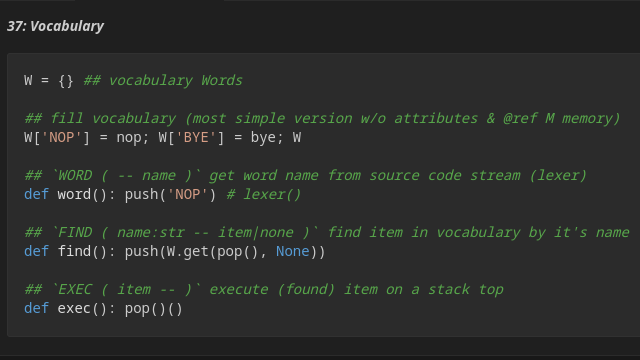
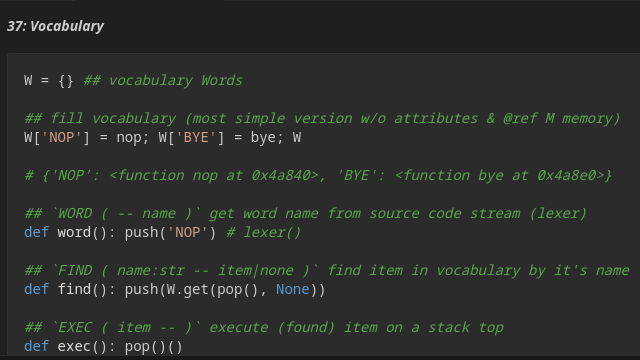
.

diff --git a/lib/test_FORTH.py b/lib/test_FORTH.py
@@ -4,118 +4,133 @@ from FORTH import *
 def test_always_passes(): assert True
 def test_always_fails(): assert not False
 
-## test @ref D data stack operations
-class TestD:
-
+class AnyTest:
     @pytest.fixture(autouse=True)
     def clear_stack(self): D.clear(); M.clear()
     # yield; D.clear() # optional clean after test
 
-    class TestStack:
+## test @ref D data stack operations
+class TestStack(AnyTest):
 
-        ## `( -- cell )`
-        def test_push(self):
-            push(1); assert D == [1]
+    ## `( -- cell )`
+    def test_push(self):
+        push(1); assert D == [1]
 
-        ## `( cell -- )`
-        def test_pop(self):
-            push(1); push(2); push(3); assert D == [1, 2, 3]
-            assert pop() == 3; assert D == [1, 2]
-            assert pop(1) == 1; assert D == [2]
+    ## `( cell -- )`
+    def test_pop(self):
+        push(1); push(2); push(3); assert D == [1, 2, 3]
+        assert pop() == 3; assert D == [1, 2]
+        assert pop(1) == 1; assert D == [2]
 
-        ## `( cell -- cell )`
-        def test_top(self):
-            push(1); assert top() == 1; assert D == [1]
+    ## `( cell -- cell )`
+    def test_top(self):
+        push(1); assert top() == 1; assert D == [1]
 
-        ## `CLEAR ( ... -- )`
-        def test_clear(self):
-            push(1); clear(); depth(); assert D == [0]
+    ## `CLEAR ( ... -- )`
+    def test_clear(self):
+        push(1); clear(); depth(); assert D == [0]
 
-        ## `DUP ( a -- a a )`
-        def test_dup(self):
-            push(1); dup(); assert D == [1, 1]
+    ## `DUP ( a -- a a )`
+    def test_dup(self):
+        push(1); dup(); assert D == [1, 1]
 
-        ## `DROP ( a b -- a )`
-        def test_drop(self):
-            push(1); push(2); drop(); assert D == [1]
+    ## `DROP ( a b -- a )`
+    def test_drop(self):
+        push(1); push(2); drop(); assert D == [1]
 
-        ## `PRESS ( a b -- b )`
-        def test_press(self):
-            push(1); push(2); press(); assert D == [2]
+    ## `PRESS ( a b -- b )`
+    def test_press(self):
+        push(1); push(2); press(); assert D == [2]
 
-        ## `SWAP ( a b -- b a )`
-        def test_swap(self):
-            push(1); push(2); swap(); assert D == [2, 1]
+    ## `SWAP ( a b -- b a )`
+    def test_swap(self):
+        push(1); push(2); swap(); assert D == [2, 1]
 
-        ## `OVER ( a b -- a b a )`
-        def test_over(self):
-            push(1); push(2); over(); assert D == [1, 2, 1]
+    ## `OVER ( a b -- a b a )`
+    def test_over(self):
+        push(1); push(2); over(); assert D == [1, 2, 1]
 
-        ## `ROT ( a b c -- b c a )`
-        def test_rot(self):
-            push(1); push(2); push(3); rot(); assert D == [2, 3, 1]
+    ## `ROT ( a b c -- b c a )`
+    def test_rot(self):
+        push(1); push(2); push(3); rot(); assert D == [2, 3, 1]
 
-        ## `-ROT ( a b c -- c a b )`
-        def test_mrot(self):
-            push(1); push(2); push(3); mrot(); assert D == [3, 1, 2]
+    ## `-ROT ( a b c -- c a b )`
+    def test_mrot(self):
+        push(1); push(2); push(3); mrot(); assert D == [3, 1, 2]
 
-        ## `PICK ( ... n -- ... D[n] )`
-        def test_pick(self):
-            push(1); push(2); push(3); rot(); pick(); assert D == [2, 3, 2]
+    ## `PICK ( ... n -- ... D[n] )`
+    def test_pick(self):
+        push(1); push(2); push(3); rot(); pick(); assert D == [2, 3, 2]
 
-        ## `DEPTH ( ... -- ... n )`
-        def test_depth(self):
-            assert depth() == [0]
-            push(1); push(2); push(3)
-            assert depth() == [0, 1, 2, 3, 4] # with previous and new depth's
+    ## `DEPTH ( ... -- ... n )`
+    def test_depth(self):
+        assert depth() == [0]
+        push(1); push(2); push(3)
+        assert depth() == [0, 1, 2, 3, 4] # with previous and new depth's
 
-    class TestMath:
+## test integer math
+class TestMath(AnyTest):
 
-        ## `+ ( a b -- a+b )`
-        def test_add(self):
-            push(+12); push(-34); add(); assert D == [+12 + -34] # -22
+    ## `+ ( a b -- a+b )`
+    def test_add(self):
+        push(+12); push(-34); add(); assert D == [+12 + -34] # -22
 
-        ## `- ( a b -- a-b )`
-        def test_sub(self):
-            push(+12); push(-34); sub(); assert D == [+12 - -34] # +46
+    ## `- ( a b -- a-b )`
+    def test_sub(self):
+        push(+12); push(-34); sub(); assert D == [+12 - -34] # +46
 
-        ## `* ( a b -- a*b )`
-        def test_mul(self):
-            push(+12); push(-34); mul(); assert D == [+12 * -34] # -408
+    ## `* ( a b -- a*b )`
+    def test_mul(self):
+        push(+12); push(-34); mul(); assert D == [+12 * -34] # -408
 
-        ## `/ ( a b -- a/b )`
-        def test_div(self):
-            push(+12); push(-34); div(); assert D == [+12 // -34] # -1
+    ## `/ ( a b -- a/b )`
+    def test_div(self):
+        push(+12); push(-34); div(); assert D == [+12 // -34] # -1
 
-        ## `% ( a b -- a%b )`
-        def test_mod(self):
-            push(+12); push(-34); mod(); assert D == [+12 % -34] # -22
+    ## `% ( a b -- a%b )`
+    def test_mod(self):
+        push(+12); push(-34); mod(); assert D == [+12 % -34] # -22
 
-    class TestMemory:
+## test @ref M ops
+class TestMemory(AnyTest):
 
-        def test_empty(self): assert M == []
+    def test_empty(self): assert M == []
 
-        ## `M++ = cell`
-        def test_compile(self):
-            push(1); compile(); push(2); compile(); assert M == [1, 2]
+    ## `M++ = cell`
+    def test_compile(self):
+        push(1); compile(); push(2); compile(); assert M == [1, 2]
 
-        def test_fetch(self):
-            self.test_compile()
-            push(1); fetch(); assert D == [2]
+    def test_fetch(self):
+        self.test_compile()
+        push(1); fetch(); assert D == [2]
 
-        def test_store(self):
-            self.test_compile()
-            push(3); push(1); store(); assert M == [1, 3]
+    def test_store(self):
+        self.test_compile()
+        push(3); push(1); store(); assert M == [1, 3]
 
 ## test @ref R return stack operations
-class TestR:
+class TestR(AnyTest):
 
     ## `M:[]`
     def test_clear(self):
         assert R == []
 
-## test FORTH lexer
+## test FORTH Vocabulary
+class TestVocabulary(AnyTest):
 
+    def test_voc(self):
+        assert W['NOP'] == nop; assert W['BYE'] == bye
+
+    def test_word(self):
+        word(); assert D == ['NOP']
+
+    def test_find(self):
+        word(); find(); assert top() == nop
+
+    def test_exec(self):
+        word(); find(); exec(); assert D == []
+
+## test FORTH @ref lexer
 class TestLexer:
 
     def test_empty(self):

diff --git a/lib/FORTH.py b/lib/FORTH.py
@@ -127,9 +127,6 @@ tokens = ['INT', 'NUM', 'WORD']
 ## drop spaces
 t_ignore = '[ \t\r]'
 
-## lexer error callback
-def t_error(t): raise SyntaxError(t)
-
 ## count lines using EOL chars as delimiter
 def t_newline(t):
     r'\n+'
@@ -140,19 +137,30 @@ def t_INT(t):
     r'[+\-]?[0-9]+'
     t.value = int(t.value); return t
 
+## group of any non-space chars
 def t_WORD(t):
     r'[^ \t\r\n]+'
     return t
 
+## lexer error callback
+def t_error(t): raise SyntaxError(t)
+
 ## build lexer from defined `t_` rules
 lexer = lex.lex()
 
-if __name__ == '__main__':
-    dump()
-    
+## REPL
 
 ## `INPUT ( -- )` fetch next source code string or user input into @ref PAD
-def input_(): lexer.input(input('> '))
+def input_(): lexer.input(input(f'{lexer.lineno}> '))
+
+def REPL():
+    while True:
+        dump()
+        try: input_()
+        except EOFError: bye()
+        print(list(lexer))
+
+if __name__ == '__main__': REPL()
 
 # ## used libs
 # import os, sys

diff --git a/doc/slide/37.md b/doc/slide/37.md
@@ -6,8 +6,7 @@ W = {} ## vocabulary Words
 ## fill vocabulary (most simple version w/o attributes & @ref M memory)
 W['NOP'] = nop; W['BYE'] = bye; W
 
-## `INPUT ( -- )` fetch next source code string or user input into @ref PAD
-def input_(): lexer.input(input('> '))
+# {'NOP': <function nop at 0x4a840>, 'BYE': <function bye at 0x4a8e0>}
 
 ## `WORD ( -- name )` get word name from source code stream (lexer)
 def word(): push('NOP') # lexer()
@@ -25,7 +24,10 @@ def exec(): pop()()
 Словарь форт-системы это критически важный компонент, который делает возможным в
 принципе существование Форта как языка и концепции. Словарь это аналог таблицы
 символов в любом компиляторе или ассемблере. Он хранит перечень имён известных
-компонентов программы (в нашем случае форт-слов и переменных), адреса из
+компонентов программы (в нашем случае форт-слов и переменных), адреса их
 размещения в памяти, и дополнительные атрибуты.
 
-Самый простой форт-интерпретатор состоит из бесконечного цикла
+Самый простой форт-интерпретатор состоит из бесконечного цикла ворд-файнд-экзэк
+- `ворд` читает входной поток и возвращает имя слова для поиска
+- `файнд` ищет слово в словаре
+- `экзэк` выполняет найденное слово, беря указатель на него со стека

diff --git a/doc/slide/38.md b/doc/slide/38.md
@@ -1,0 +1,18 @@
+***38: Lexer***
+
+```py
+import ply.lex as lex
+```
+
+## subtitles
+### ru
+
+Так как в дальнейшем мы хотим усложнить язык, оставив для его исполнения только
+рантайм в виде виртуальной форт-машины, есть смысл сразу заменить классическое
+слово `ворд` оперирующее строками, на полноценный лексер. Лексер не только
+сможет вычленять группы символов как имена слов для поиска, но будет возвращать
+типизированные токены. Лексер опреляется как набор правил на регулярных
+выражениях, и способен сразу определить является ли группы символов записью
+целого числа, числа с плавающей точкой, строки, или имени слова.
+
+Для создания лексера будем использовать питон-библиотеку PLY.
